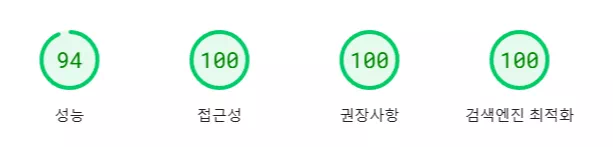
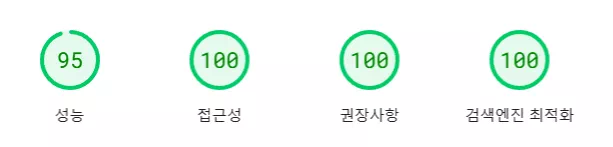
퍼센트 수정

Changed region(s): [[0.062, 0.2449, 0.186, 0.5714], [0.124, 0.517, 0.155, 0.5986], [0.093, 0.2177, 0.124, 0.2449]]

diff --git a/src/components/projectPages/Shop.js b/src/components/projectPages/Shop.js
@@ -127,7 +127,7 @@ const Shop = () => {
           <div className="explain">
             <h4 className="ex_h4">큰 이미지 용량으로 인한 성능 저하</h4>
             <div>
-              • 기존 jpg, png 파일을 차세대 이미지 형식인 Webp 파일 변환을 통해 이미지 용량을 최적화 하였습니다. (이미지 용량 90% 개선)
+              • 기존 jpg, png 파일을 차세대 이미지 형식인 Webp 파일 변환을 통해 이미지 용량을 최적화 하였습니다. (이미지 파일 크기 90% 개선)
             </div>
             <h4 className="ex_h4">초기 렌더링 속도 개선</h4>
             <div>
@@ -170,9 +170,9 @@ const Shop = () => {
             </div>
           </div>
           <span className="shop-sub-explain">- 웹페이지 성능 측정은 구글에서 제공하는 오픈 소스인 Lighthouse로 측정하였습니다.</span>
-          <div>• FCP(First Contentful Paint) : 3.5초에서 0.2초(94.29% 개선)</div>
-          <div>• LCP (Largest Contentful Paint) : 6.7초에서 1.8초(73.13% 개선)</div>
-          <div>• Speed Index (속도 지수) : 3.5초에서 0.3초(91.43% 개선)</div>
+          <div>• FCP(First Contentful Paint) : 3.5초에서 0.2초(94.3% 개선)</div>
+          <div>• LCP (Largest Contentful Paint) : 6.7초에서 1.6초(76.1% 개선)</div>
+          <div>• Speed Index (속도 지수) : 3.5초에서 0.6초(82.9% 개선)</div>
           <div>• CLS (Cumulative Layout Shift) : 0.128에서 0(100% 개선)</div>
         </div>
       </section>
